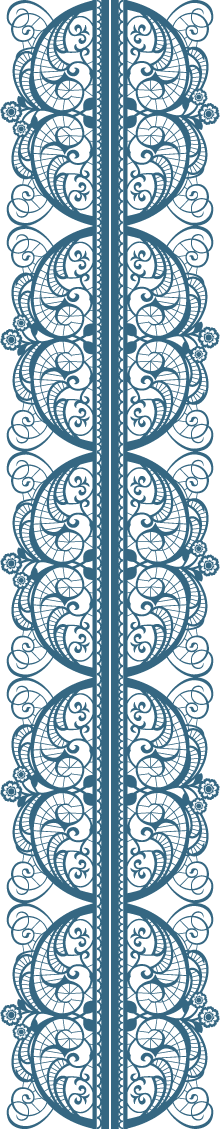
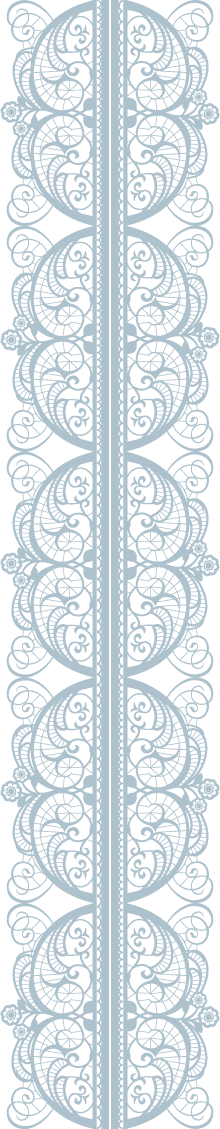
Fixing the spaces between items at the footer and making the laces lighter

diff --git a/v5/english.html b/v5/english.html
@@ -549,11 +549,20 @@
           </div>
           <div class="col-sm-10">
             <div class="row">
-              <div class="col-sm-5">
+              <div class="col-sm-3">
                 <p class="mbr-contacts-header"><strong>Contacts</strong><br></p>
 
                 <p class="mbr-contacts__text">
                   Julie: +1 905 536 7033
+                  <br/>
+                  Marcel: +49 176 7238 8159
+               </p>
+              </div>
+
+              <div class="col-sm-2">
+                <p class="mbr-contacts-header"><br></p>
+
+                <p class="mbr-contacts__text">
                   <span class="icons-social-media">
                     <a tabindex="0" role="button" data-toggle="popover" data-trigger="focus" data-container="body"
                        data-toggle="popover" data-placement="top"
@@ -569,8 +578,8 @@
 
                     <a href="https://www.facebook.com/julie.milki" target="_blank"><i class="fa fa-facebook"></i></a>
                   </span>
+
                   <br/>
-                  Marcel: +49 176 7238 8159
 
                    <span class="icons-social-media">
                     <a tabindex="0" role="button" data-toggle="popover" data-trigger="focus" data-container="body"
@@ -589,12 +598,12 @@
                 </p>
               </div>
 
-              <div class="col-sm-5">
+              <div class="col-sm-4">
                 <p class="mbr-contacts-header"><strong>Email</strong><br></p>
 
                 <p class="mbr-contacts__text">marcelandjulie@gmail.com</p>
               </div>
-              <div class="col-sm-2"><p class="mbr-contacts-header"><strong>Links</strong></p>
+              <div class="col-sm-3"><p class="mbr-contacts-header"><strong>Links</strong></p>
                 <ul class="mbr-contacts__list">
                   <li><a href="http://www.liunagardens.com/" target="_blank" class="text-white">Liuna Gardens</a>
                   </li>

diff --git a/v5/assets/mobirise/css/style.css b/v5/assets/mobirise/css/style.css
@@ -1688,7 +1688,7 @@ body{
 }
 
 .footer .icons-social-media a {
-  float: right;
+  float: left;
   margin: 0px 0px 0px 8px;
 }
 
